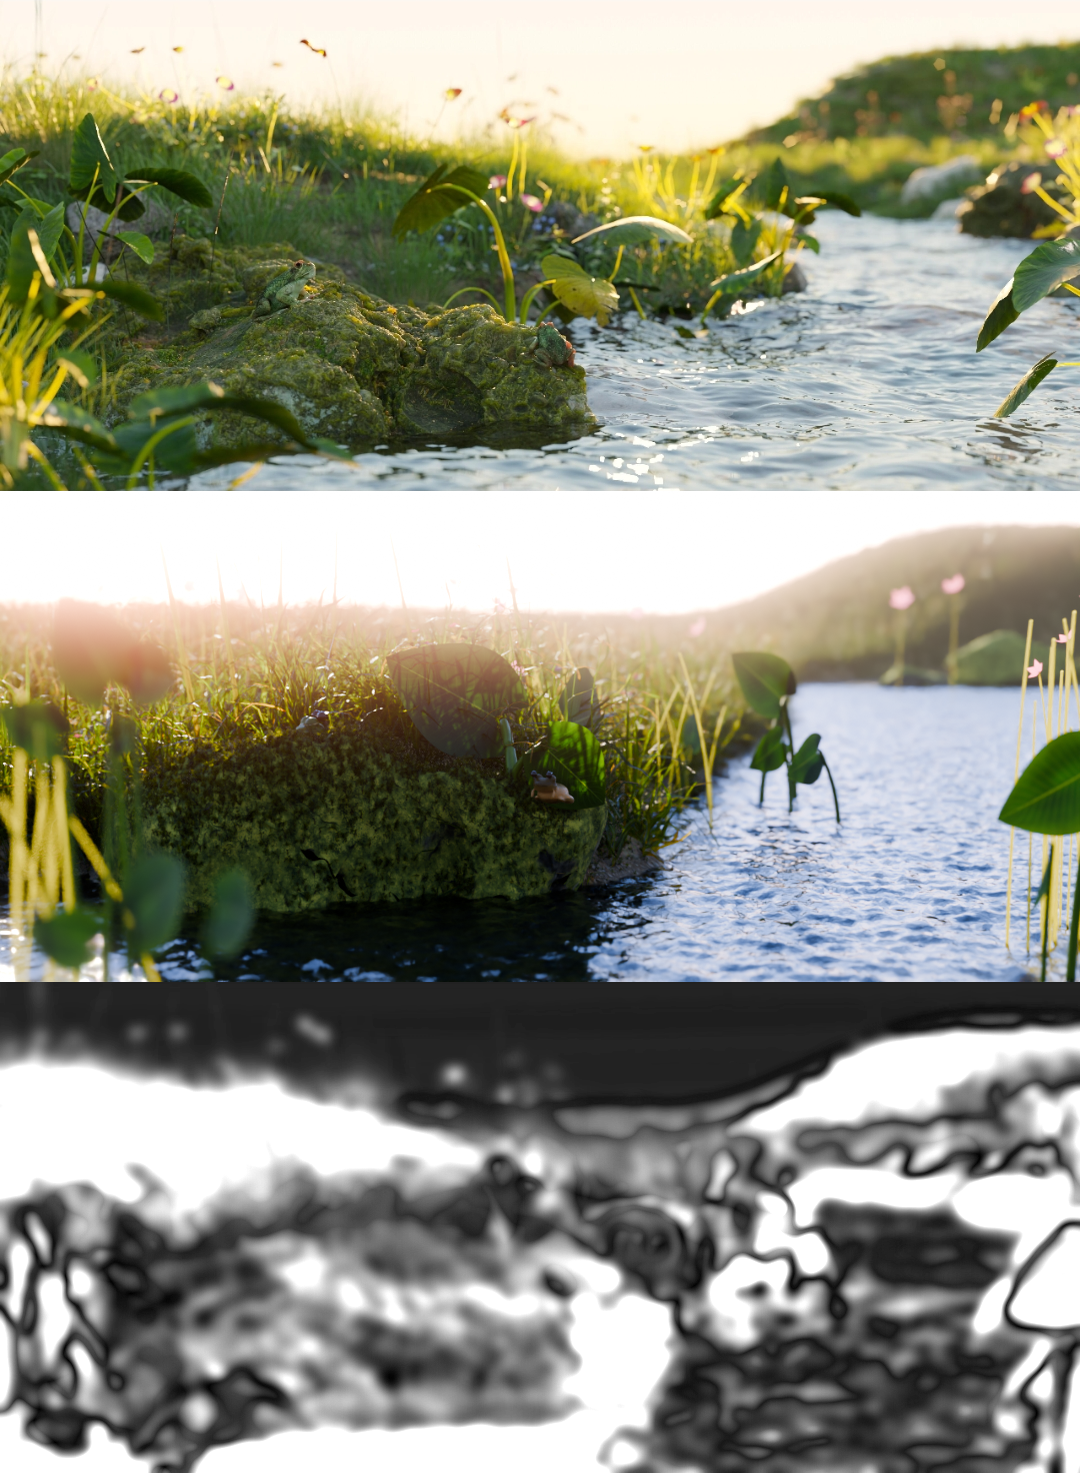
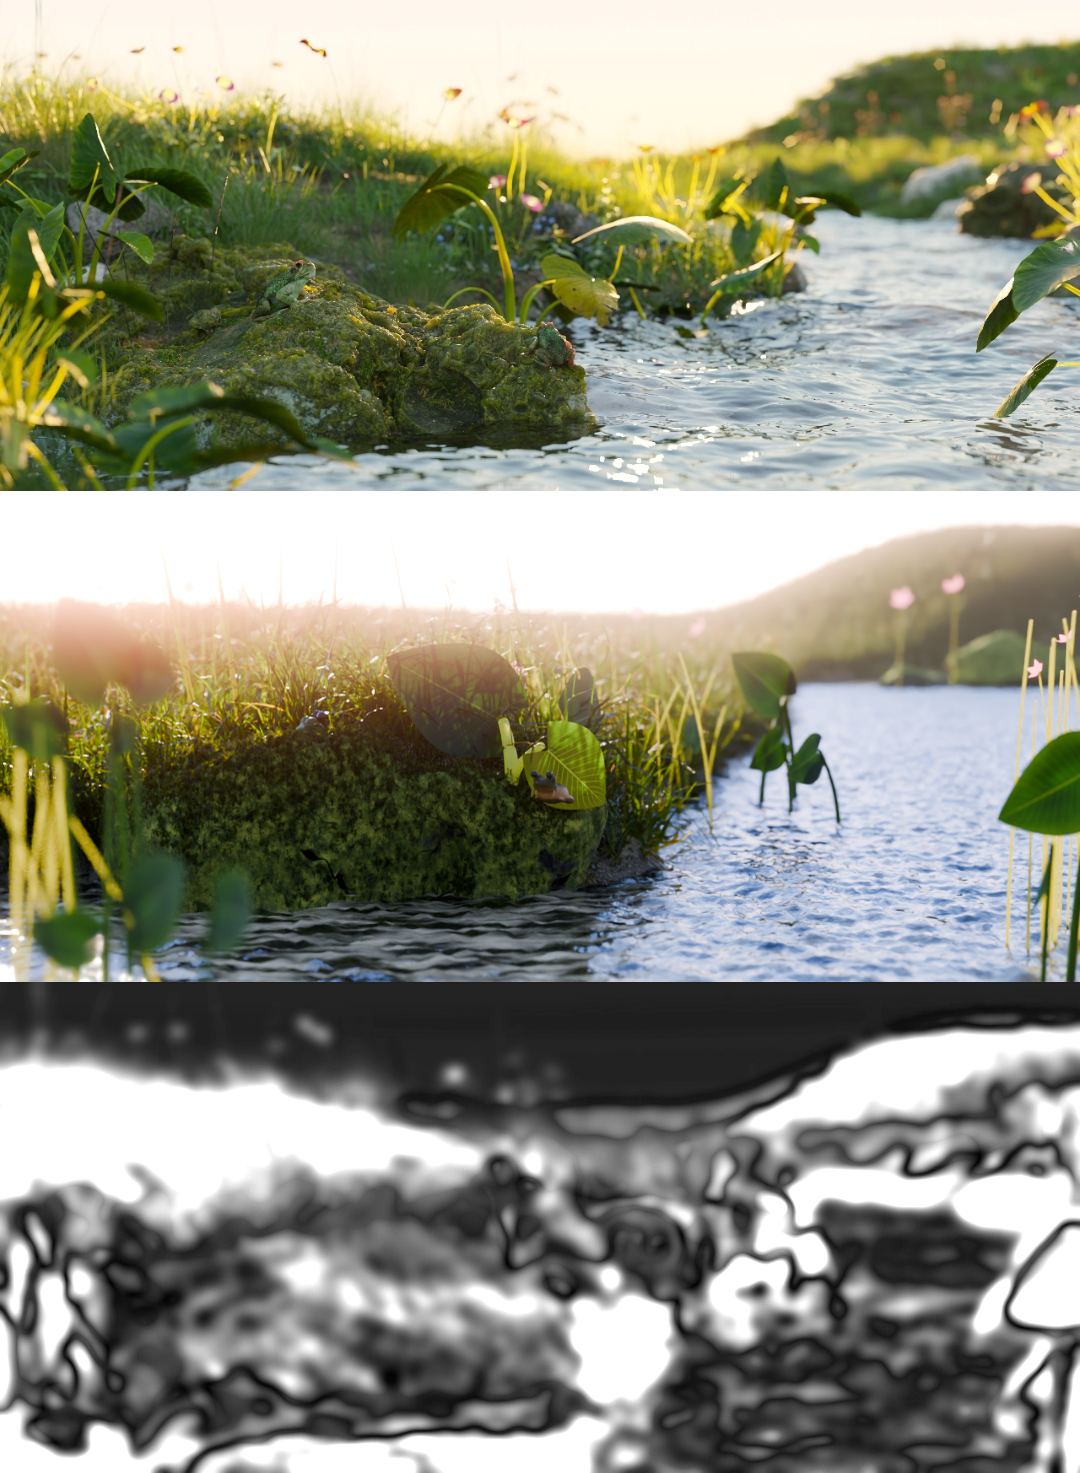
Creek scene: backlit yellow leaf, visible stem on the rock, rippled bright water in front of the rock
Claude-Session: https://claude.ai/code/session_01K2jeMQuhDLuDxGG8CNrseQ

diff --git a/tools/creek/build_scene.py b/tools/creek/build_scene.py
@@ -673,7 +673,43 @@ def build_water():
     vol = node(nt, "ShaderNodeVolumeAbsorption", (0, -400))
     vol.inputs["Color"].default_value = (0.7, 0.78, 0.7, 1)
     vol.inputs["Density"].default_value = 3.0
-    nt.links.new(b.outputs[0], out.inputs["Surface"])
+    geo = node(nt, "ShaderNodeNewGeometry", (-1000, 400))
+    sxyz = node(nt, "ShaderNodeSeparateXYZ", (-800, 400))
+    nt.links.new(geo.outputs["Position"], sxyz.inputs[0])
+    my = node(nt, "ShaderNodeMapRange", (-600, 500))
+    my.inputs["From Min"].default_value, my.inputs["From Max"].default_value = 0.1, -0.4
+    nt.links.new(sxyz.outputs["Y"], my.inputs["Value"])
+    mx = node(nt, "ShaderNodeMapRange", (-600, 300))
+    mx.inputs["From Min"].default_value, mx.inputs["From Max"].default_value = 0.4, 0.0
+    nt.links.new(sxyz.outputs["X"], mx.inputs["Value"])
+    mask = node(nt, "ShaderNodeMath", (-400, 400), operation="MULTIPLY")
+    nt.links.new(my.outputs[0], mask.inputs[0])
+    nt.links.new(mx.outputs[0], mask.inputs[1])
+    sky = node(nt, "ShaderNodeEmission", (0, 300))
+    sky.inputs["Color"].default_value = (0.72, 0.8, 0.9, 1)
+    sky.inputs["Strength"].default_value = 1.1
+    sheen = node(nt, "ShaderNodeMixShader", (300, 100))
+    mfac = node(nt, "ShaderNodeMath", (-200, 400), operation="MULTIPLY")
+    mfac.inputs[1].default_value = 0.4
+    nt.links.new(mask.outputs[0], mfac.inputs[0])
+    # only the ripple crests catch the sky, so the surface keeps its texture
+    crest = node(nt, "ShaderNodeMapRange", (-400, 200))
+    crest.inputs["From Min"].default_value, crest.inputs["From Max"].default_value = 0.42, 0.68
+    rip = node(nt, "ShaderNodeTexNoise", (-700, 100))
+    rip.inputs["Scale"].default_value = 1.0
+    rip.inputs["Detail"].default_value = 3.0
+    rmp = node(nt, "ShaderNodeMapping", (-900, 100))
+    rmp.inputs["Scale"].default_value = (18.0, 70.0, 18.0)   # long crests across the flow, like the rest of the stream
+    nt.links.new(geo.outputs["Position"], rmp.inputs["Vector"])
+    nt.links.new(rmp.outputs[0], rip.inputs["Vector"])
+    nt.links.new(rip.outputs["Fac"], crest.inputs["Value"])
+    mcrest = node(nt, "ShaderNodeMath", (-100, 300), operation="MULTIPLY")
+    nt.links.new(mfac.outputs[0], mcrest.inputs[0])
+    nt.links.new(crest.outputs[0], mcrest.inputs[1])
+    nt.links.new(mcrest.outputs[0], sheen.inputs["Fac"])
+    nt.links.new(b.outputs[0], sheen.inputs[1])
+    nt.links.new(sky.outputs[0], sheen.inputs[2])
+    nt.links.new(sheen.outputs[0], out.inputs["Surface"])
     nt.links.new(vol.outputs[0], out.inputs["Volume"])
     w.data.materials.append(m)
     return w
@@ -790,7 +826,7 @@ def stem_mesh(points, radius):
     return me
 
 
-def taro(px, py, d, size_px, tip, tilt, droop=0.10, fold=0.05, lean=0.25, base_at=None):
+def taro(px, py, d, size_px, tip, tilt, droop=0.10, fold=0.05, lean=0.25, base_at=None, stem_scale=1.0):
     """Leaf blade seen at reference pixel (px, py), distance d, length size_px pixels.
 
     tip: direction the tip points in the image, degrees (0 = right, 90 = up).
@@ -813,7 +849,7 @@ def taro(px, py, d, size_px, tip, tilt, droop=0.10, fold=0.05, lean=0.25, base_a
         p.x = base.x + (blade_base.x - base.x) * t ** 2.2       # rises vertically, bends at the top
         p.y = base.y + (blade_base.y - base.y) * t ** 2.2
         pts.append(p)
-    stem = bpy.data.objects.new("taro_stem", stem_mesh(pts, max(0.0018, size * 0.045)))
+    stem = bpy.data.objects.new("taro_stem", stem_mesh(pts, max(0.0018, size * 0.045) * stem_scale))
     leaf_coll.objects.link(stem)
     leaf = bpy.data.objects.new("taro_leaf", leaf_mesh(size, size * 0.42, fold, droop))
     leaf_coll.objects.link(leaf)
@@ -1021,14 +1057,26 @@ frog("frog_edge", on_rock(p2.x, p2.y), 150, 0.03, "frog_brown_color.png")
 # one taro plant growing out of the rock: a single stem base, two big leaves (as in the reference)
 _root = unproject(512, 318, 1.0)
 _root = on_rock(_root.x, _root.y + 0.02)
-taro(445, 197, 1.05, 150, 150, 25, lean=0.0, base_at=lambda gx, gy: _root)
-_, _lit = taro(582, 287, 1.0, 115, -40, 20, lean=0.0, base_at=lambda gx, gy: _root)
+_s1, _ = taro(445, 197, 1.05, 150, 150, 25, lean=0.0, base_at=lambda gx, gy: _root, stem_scale=1.15)
+_s2, _lit = taro(582, 287, 1.0, 115, -40, 20, lean=0.0, base_at=lambda gx, gy: _root, stem_scale=1.1)
 # the right leaf glows yellow with the sun behind it
 _lit_mat = leaf_mat.copy()
 for _n in _lit_mat.node_tree.nodes:
     if _n.type == "MATH" and _n.operation == "MULTIPLY":
-        _n.inputs[1].default_value = 0.8
+        _n.inputs[1].default_value = 0.95
+_lnt = _lit_mat.node_tree
+_lb = next(n for n in _lnt.nodes if n.type == "BSDF_PRINCIPLED")
+_lb.inputs["Emission Color"].default_value = (0.75, 0.8, 0.12, 1)
+_lb.inputs["Emission Strength"].default_value = 0.3
 _lit.data.materials[0] = _lit_mat
+# the plant's stems: yellow-green, sunlit through
+_stem_lit = stalk_mat.copy()
+_sb = next(n for n in _stem_lit.node_tree.nodes if n.type == "BSDF_PRINCIPLED")
+_sb.inputs["Base Color"].default_value = (0.5, 0.62, 0.12, 1)
+_sb.inputs["Emission Color"].default_value = (0.55, 0.65, 0.1, 1)
+_sb.inputs["Emission Strength"].default_value = 0.2
+for _s in (_s1, _s2):
+    _s.data.materials[0] = _stem_lit
 
 
 # ---------------------------------------------------------------- lights, world, camera
